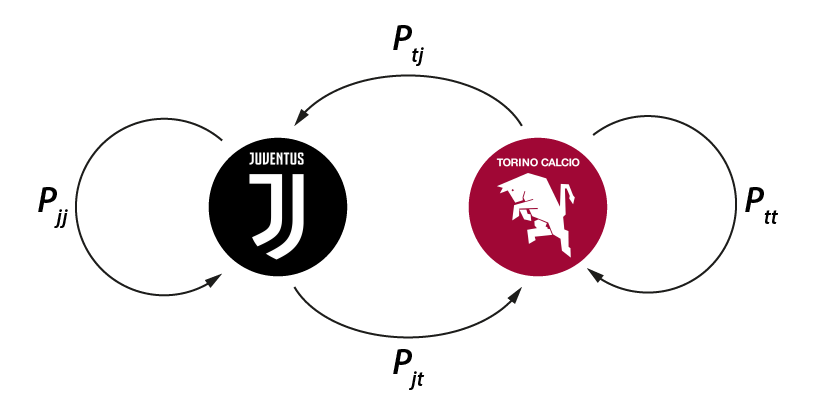
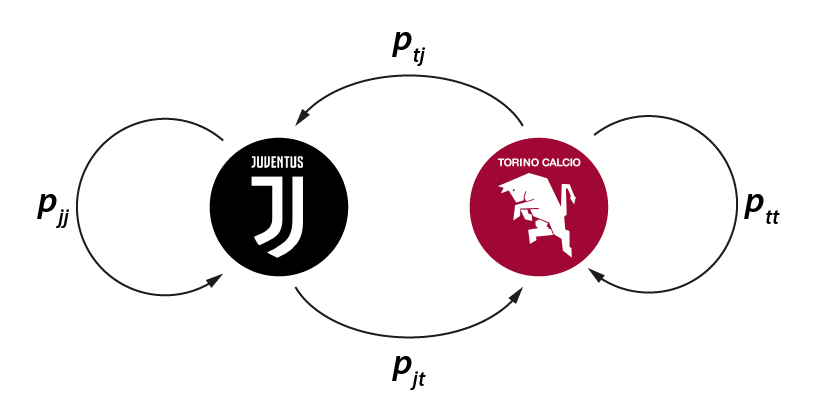
Updated 'Soccer Markov Chain' in markov_1.md

diff --git a/content/docs/biophysics/markov_1.md b/content/docs/biophysics/markov_1.md
@@ -218,58 +218,63 @@ the system  we are interested in.
 
 ## Simulate the process
 If we assume that the Markovian hypothesis is---at least approximately---met, we
-might think of using the empirical transition matrix drawn from the real
-sequence to simulate any long Markovian chain of states (provided we have a
-random number generator). The following __R__ code is a general example of a
-"Markovian engine" for a 2-state process, such as our soccer game between
-Juventus and Torino.
+might think of using the empirical transition matrix drawn from the observed
+sequence to simulate any long Markov chain of states (provided we have a random
+number generator). The following __R__ code is a general example of "Markovian
+engine" for a 2-state process, such as our soccer game between Juventus and
+Torino.
 ```r {{% include "/static/codes/soccer_markov_chain.R" %}} ```
 {{< soccerMarkov >}}
 
-What we obtained here is one particular _realization_ of the Markovian random
-process defined by \\(bm{P}\\), among the infinite possible ones. By running the
-simulation again, it is extremely unlikely to get the same sequence of states
-(by "very unlikely" I mean that if it happens---obviously without using
-fixed-seeded pseudo-random numbers, man---I will gift you my credit card right
-away). What we would get instead would be a new realization, absolutely
-different from the previous one, but still similar to it, in that it would be
-based on the same transition probabilities between states (having been generated
-from the same transition matrix).
+What we obtained here is a particular _realization_ of the Markov random process
+defined by \\(\bm{P}\\), being just one among the infinite possible chains. By
+running the simulation again, it is extremely unlikely to get the same sequence
+of states (without using fixed-seeded pseudo-random numbers). And by "very
+unlikely" I mean much more unlikely than Torino winning the league. What we
+would get instead would be a new realization, absolutely different from the
+previous one, but still similar to it, in that it would be based on the same
+transition probabilities between states (having been generated from the same
+transition matrix).
 
 More in detail, we simulated here a chain that is 9 times as long as the
 original one, thus representing _a possible_ full game without stoppage or extra
 time, that is to say 90 endless minutes of boring idle playing. By moving the
 above slider to the right you can experience the same excitement of an entire
 game condensed into a few seconds... or, at least, it works for me in the sense
-that the emotion is really the same.
+that my emotion is really the same in both the situations.
 
 ## A bit of formalism
 A __random process__ is generally defined as a random function of time
-\\(X\\!\left(t\right)\\), that is to say a time sequence of random variables even though independent variables of different nature
+\\(X\\!\left(t\right)\\), that is to say a time sequence of random variables
+even though independent variables of different nature
 (e.g., position) are still possible. Consistent with a standard notation, the
-function \\(x\\!\left(t\right)\\) is a member of an _ensemble_ (family, set, collection) of functions, which is denoted with an upper case letter. Thus,
+function \\(x\\!\left(t\right)\\) is a member of an _ensemble_ (family, set,
+collection) of functions, which is denoted with an upper case letter. Thus,
 \\(X\\!\left(t\right)\\) represents the random process, while
-\\(x\\!\left(t\right)\\) is one particular member or _realization_ of the random
-process. For discrete time signals we use the notation \\(X\\!\left[n\right]\\)
-to represent the discrete sequence of random variables and
-\\(x\\!\left[n\right]\\) to represent the discrete sequence of numbers of a
-particular realization. This occurs when either a continuous time variable is
-sampled to regularly spaced discrete points in time (\\(t=n\ \delta t\\)) or when
-the process is inherently discrete, consisting in as a sequence of cycles or
-steps (as in the soccer case).
+\\(x\\!\left(t\right)\\) is one particular member or _realization_ of it. For
+discrete time series we use the notation \\(X\\!\left[n\right]\\)
+(or \\(X_{n}\\)) to represent the discrete sequence of random variables and
+\\(x\\!\left[n\right]\\) (or \\(x_{n}\\)) to represent the discrete sequence of
+numbers of a particular realization. This occurs when either a continuous time
+variable is sampled to regularly spaced discrete points in time
+(\\(t=n\ \delta t\\)) or when the process is inherently discrete, consisting in
+as a sequence of cycles or steps (as in the soccer case).
 
 A discrete-time (first-order) Markov random process---better known as a
 ___Markov chain___---is a memoryless random process such that
-
-
-
-For a system with a finite number of states (let's say \\(m\\)), we can introduce the _transition matrix_ as
-\\(\bm{P}=\left\(p_{ab}\right\)\_{m\times m}\\) meaning the square
-\\(m\times m\\) matrix whose generic element is the transition probability from
-\\(a\\) to \\(b\\) (i.e., the probability of having a state _b_, conditional on
-coming from state _a_).
 {{< katex display >}}
-    \bm{P} =
+\begin{aligned}
+       & \textrm{Pr}\left(X_{n+1}=x\ |\ X_{n}=x_{n},\ X_{n-1}=x_{n-1},\ \ldots,\ X_{0}=x_{0}\right)\\
+    =\ & \textrm{Pr}\left(X_{n+1}=x\ |\ X_{n}=x_{n}\right)
+\end{aligned}
+{{< /katex >}}
+
+Depending on the state space (i.e., the set of possible values that the random
+process can take) Markov chains can be either continuous- or discrete-valued. In
+this latter case, for a system with a finite number of states (let's say
+\\(m\\)), it is convenient to define the _transition matrix_
+{{< katex display >}}
+    \bm{P} = \left(p_{ab}\right)_{m\times m} =
     \begin{pmatrix}
         p_{11} & p_{12} & \ldots & p_{1m}\\
         p_{21} & p_{22} & \ldots & p_{2m}\\
@@ -277,22 +282,26 @@ coming from state _a_).
         p_{m1} & p_{m2} & \ldots & p_{mm}
     \end{pmatrix}
 {{< /katex >}}
+which is a square \\(m\\)-by-\\(m\\) matrix whose generic element is the
+transition probability from \\(a\\) to \\(b\\) (i.e., the probability of having
+a state \\(b\\), conditional on coming from a state \\(a\\)).
 $$
-p_{ab}=\textrm{Pr}\left(X\\!\left[k+1\right]=b\ |\ X\\!\left[k\right]=a\right)
+p_{ab}=\textrm{Pr}\left(X\\!\left[n+1\right]=b\ |\ X\\!\left[n\right]=a\right)
 $$
+Also, by definition, \\(\bm{P}\\) is a _stochastic matrix_, meaning that all of
+its elements are between 0 and 1 and each row must sum to 1.
+{{< katex display >}}
+\begin{cases}
+    p_{ab}\in[0,1]\\
+    \sum_b p_{ab}=1\ \forall a
+\end{cases}
+{{< /katex >}}
 
-Also, by definition, \\(\bm{P}\\) is a _stochastic matrix_,
-meaning that all of its elements are between 0 and 1 (\\(p_{ab}\in[0,1]\\)) and
-each row must sum to 1 (\\(\sum_b p_{ab}=1\ \forall a\\)).
-
-
-(although some might object by
-arguing that these are just two different playing tactics and here we measure
-_passes_ and not the real _ball possession time_).
-
-As a stochastic system, the state that a Markovian system will assume after a
-given number of cycles is not predictable. Nevertheless, its evolution over time
-can be approached statistically, since even if the path is random, not all
-branches are equally likely.
-
-the xxx function is intended to measure...
+Markov chains are frequently assumed to be _time-homogeneous_ (aka _stationary
+Markov chains_), meaning that
+$$
+\textrm{Pr}\left(X_{n+1}=x\ |\ X_{n}=y\right) = \textrm{Pr}\left(X_{n}=x\ |\ X_{n-1}=y\right)
+$$
+for all \\(n\\). In this case, transition probabilities are independent of
+\\(n\\). However, in general, the transition matrix can change in time
+(\\(\bm{P}\\!\left[n\right]\\)).
